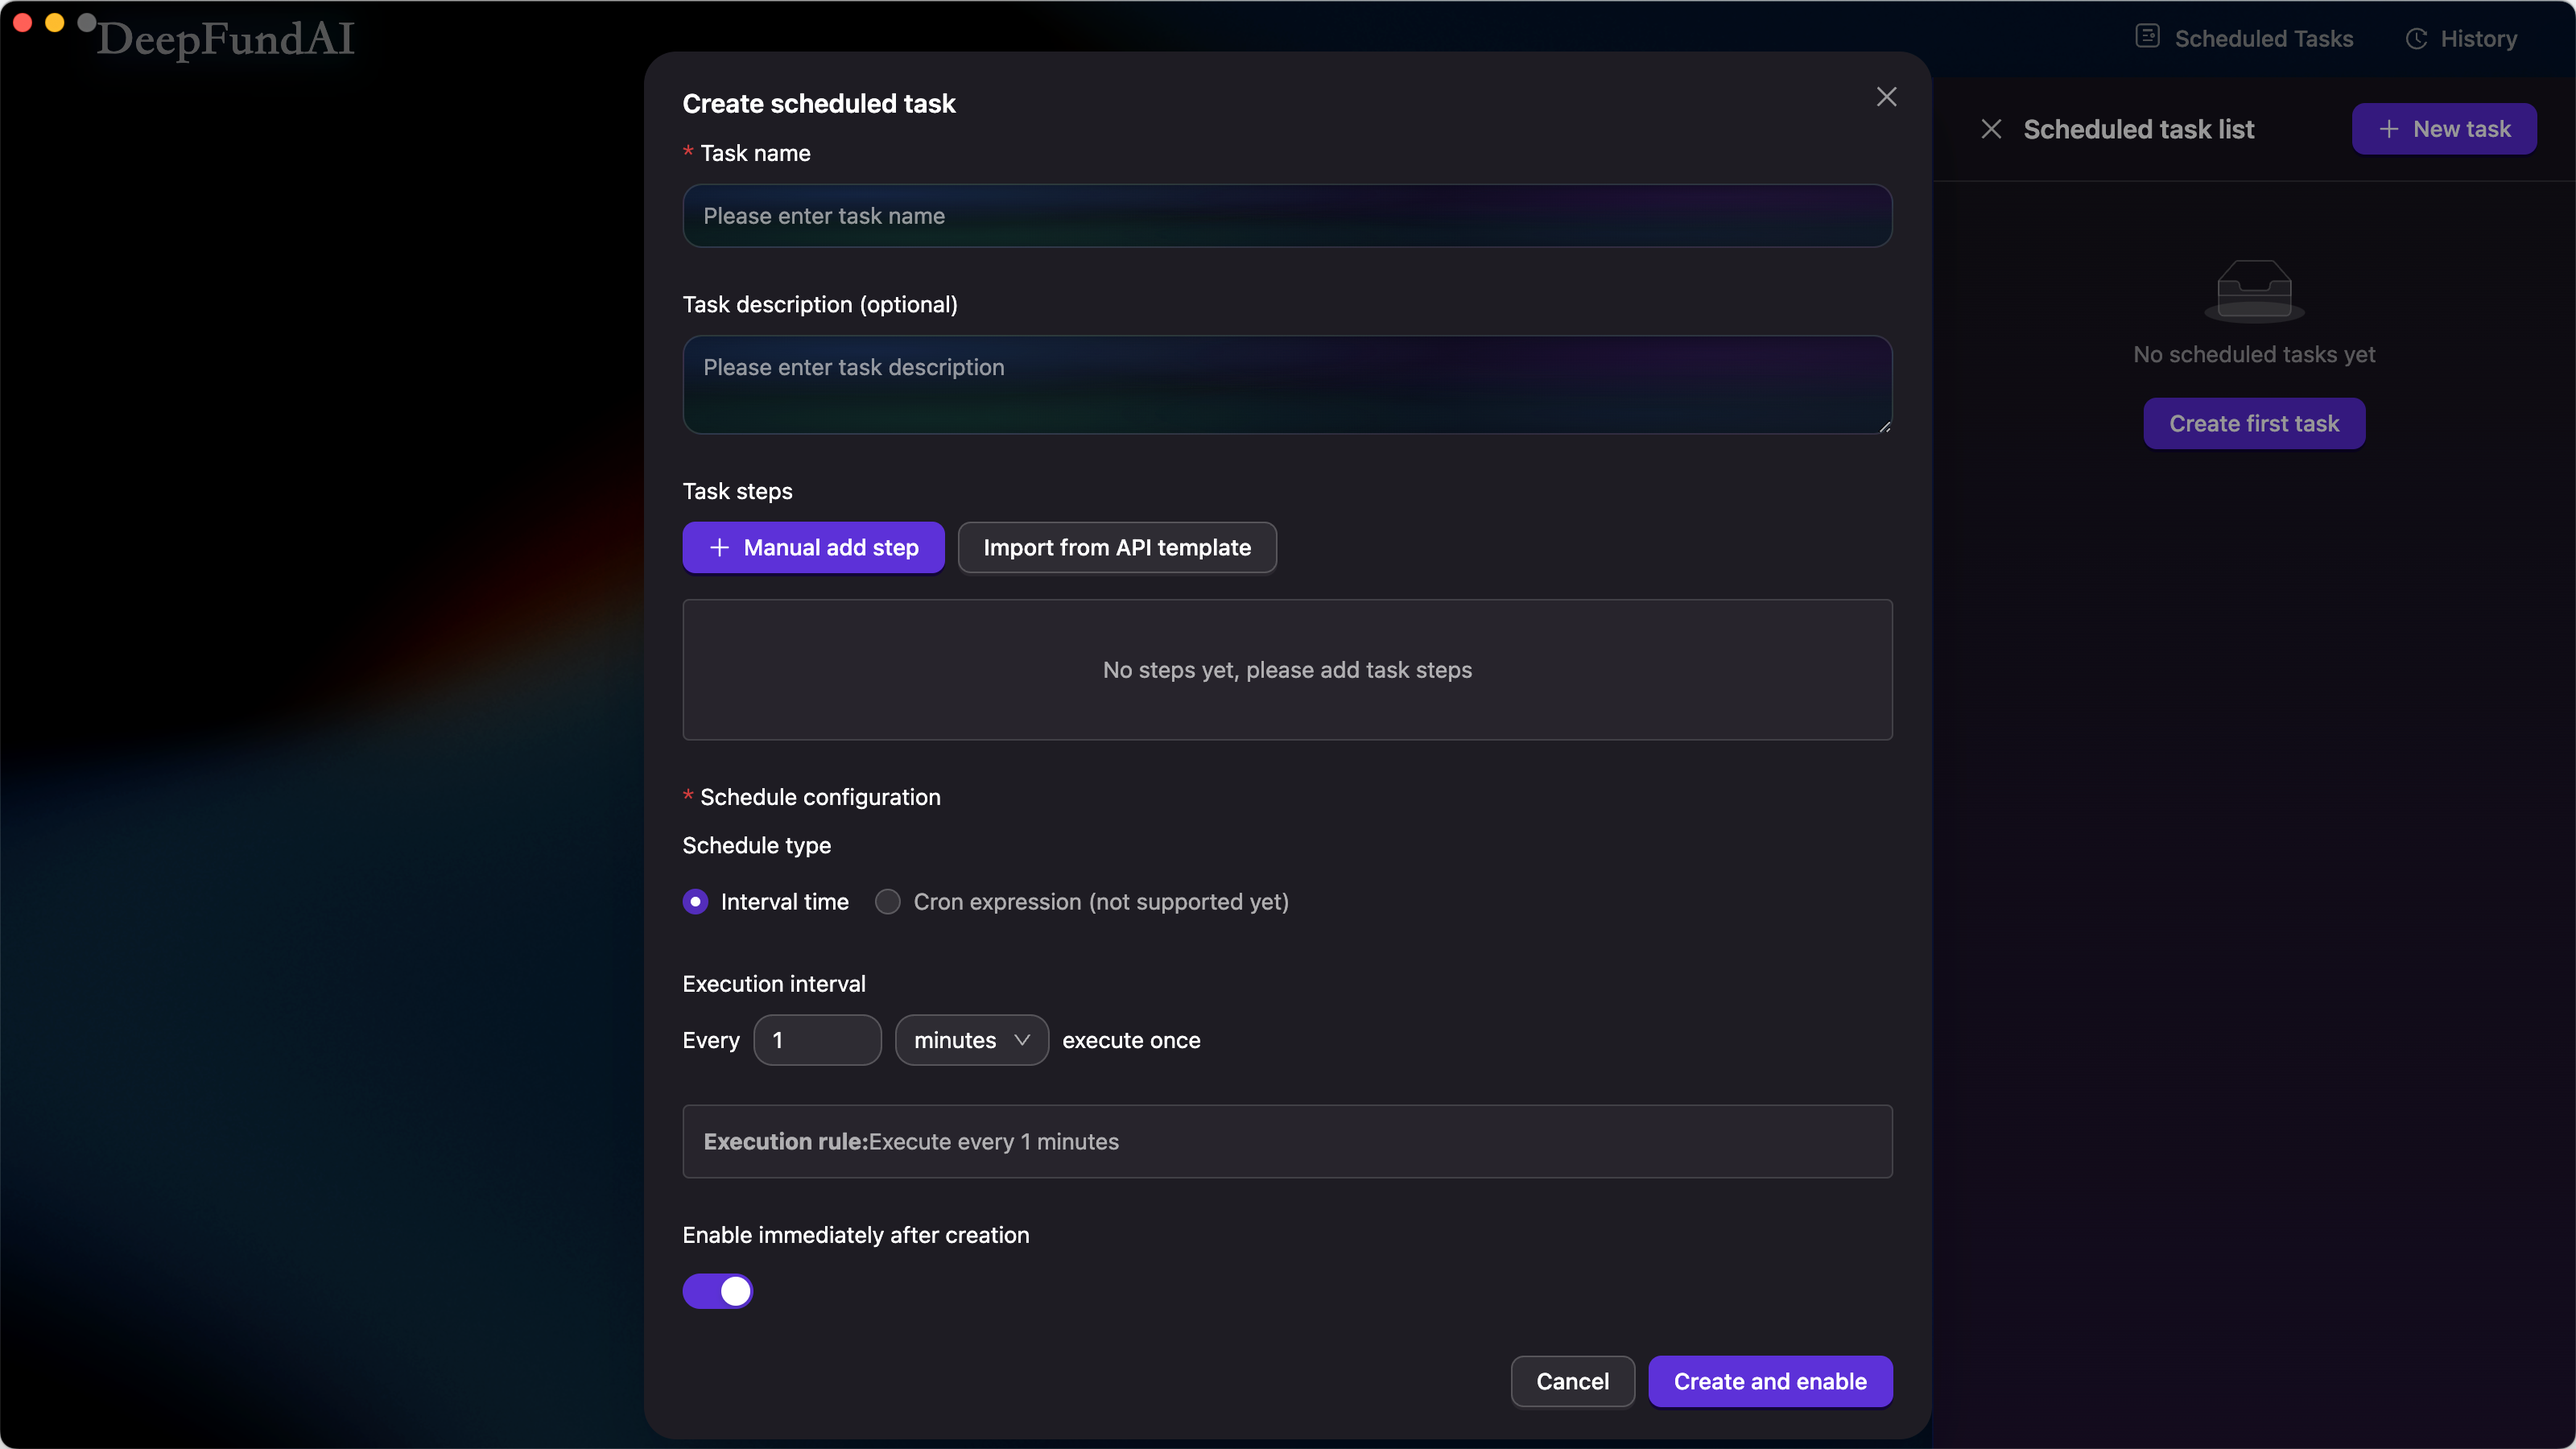
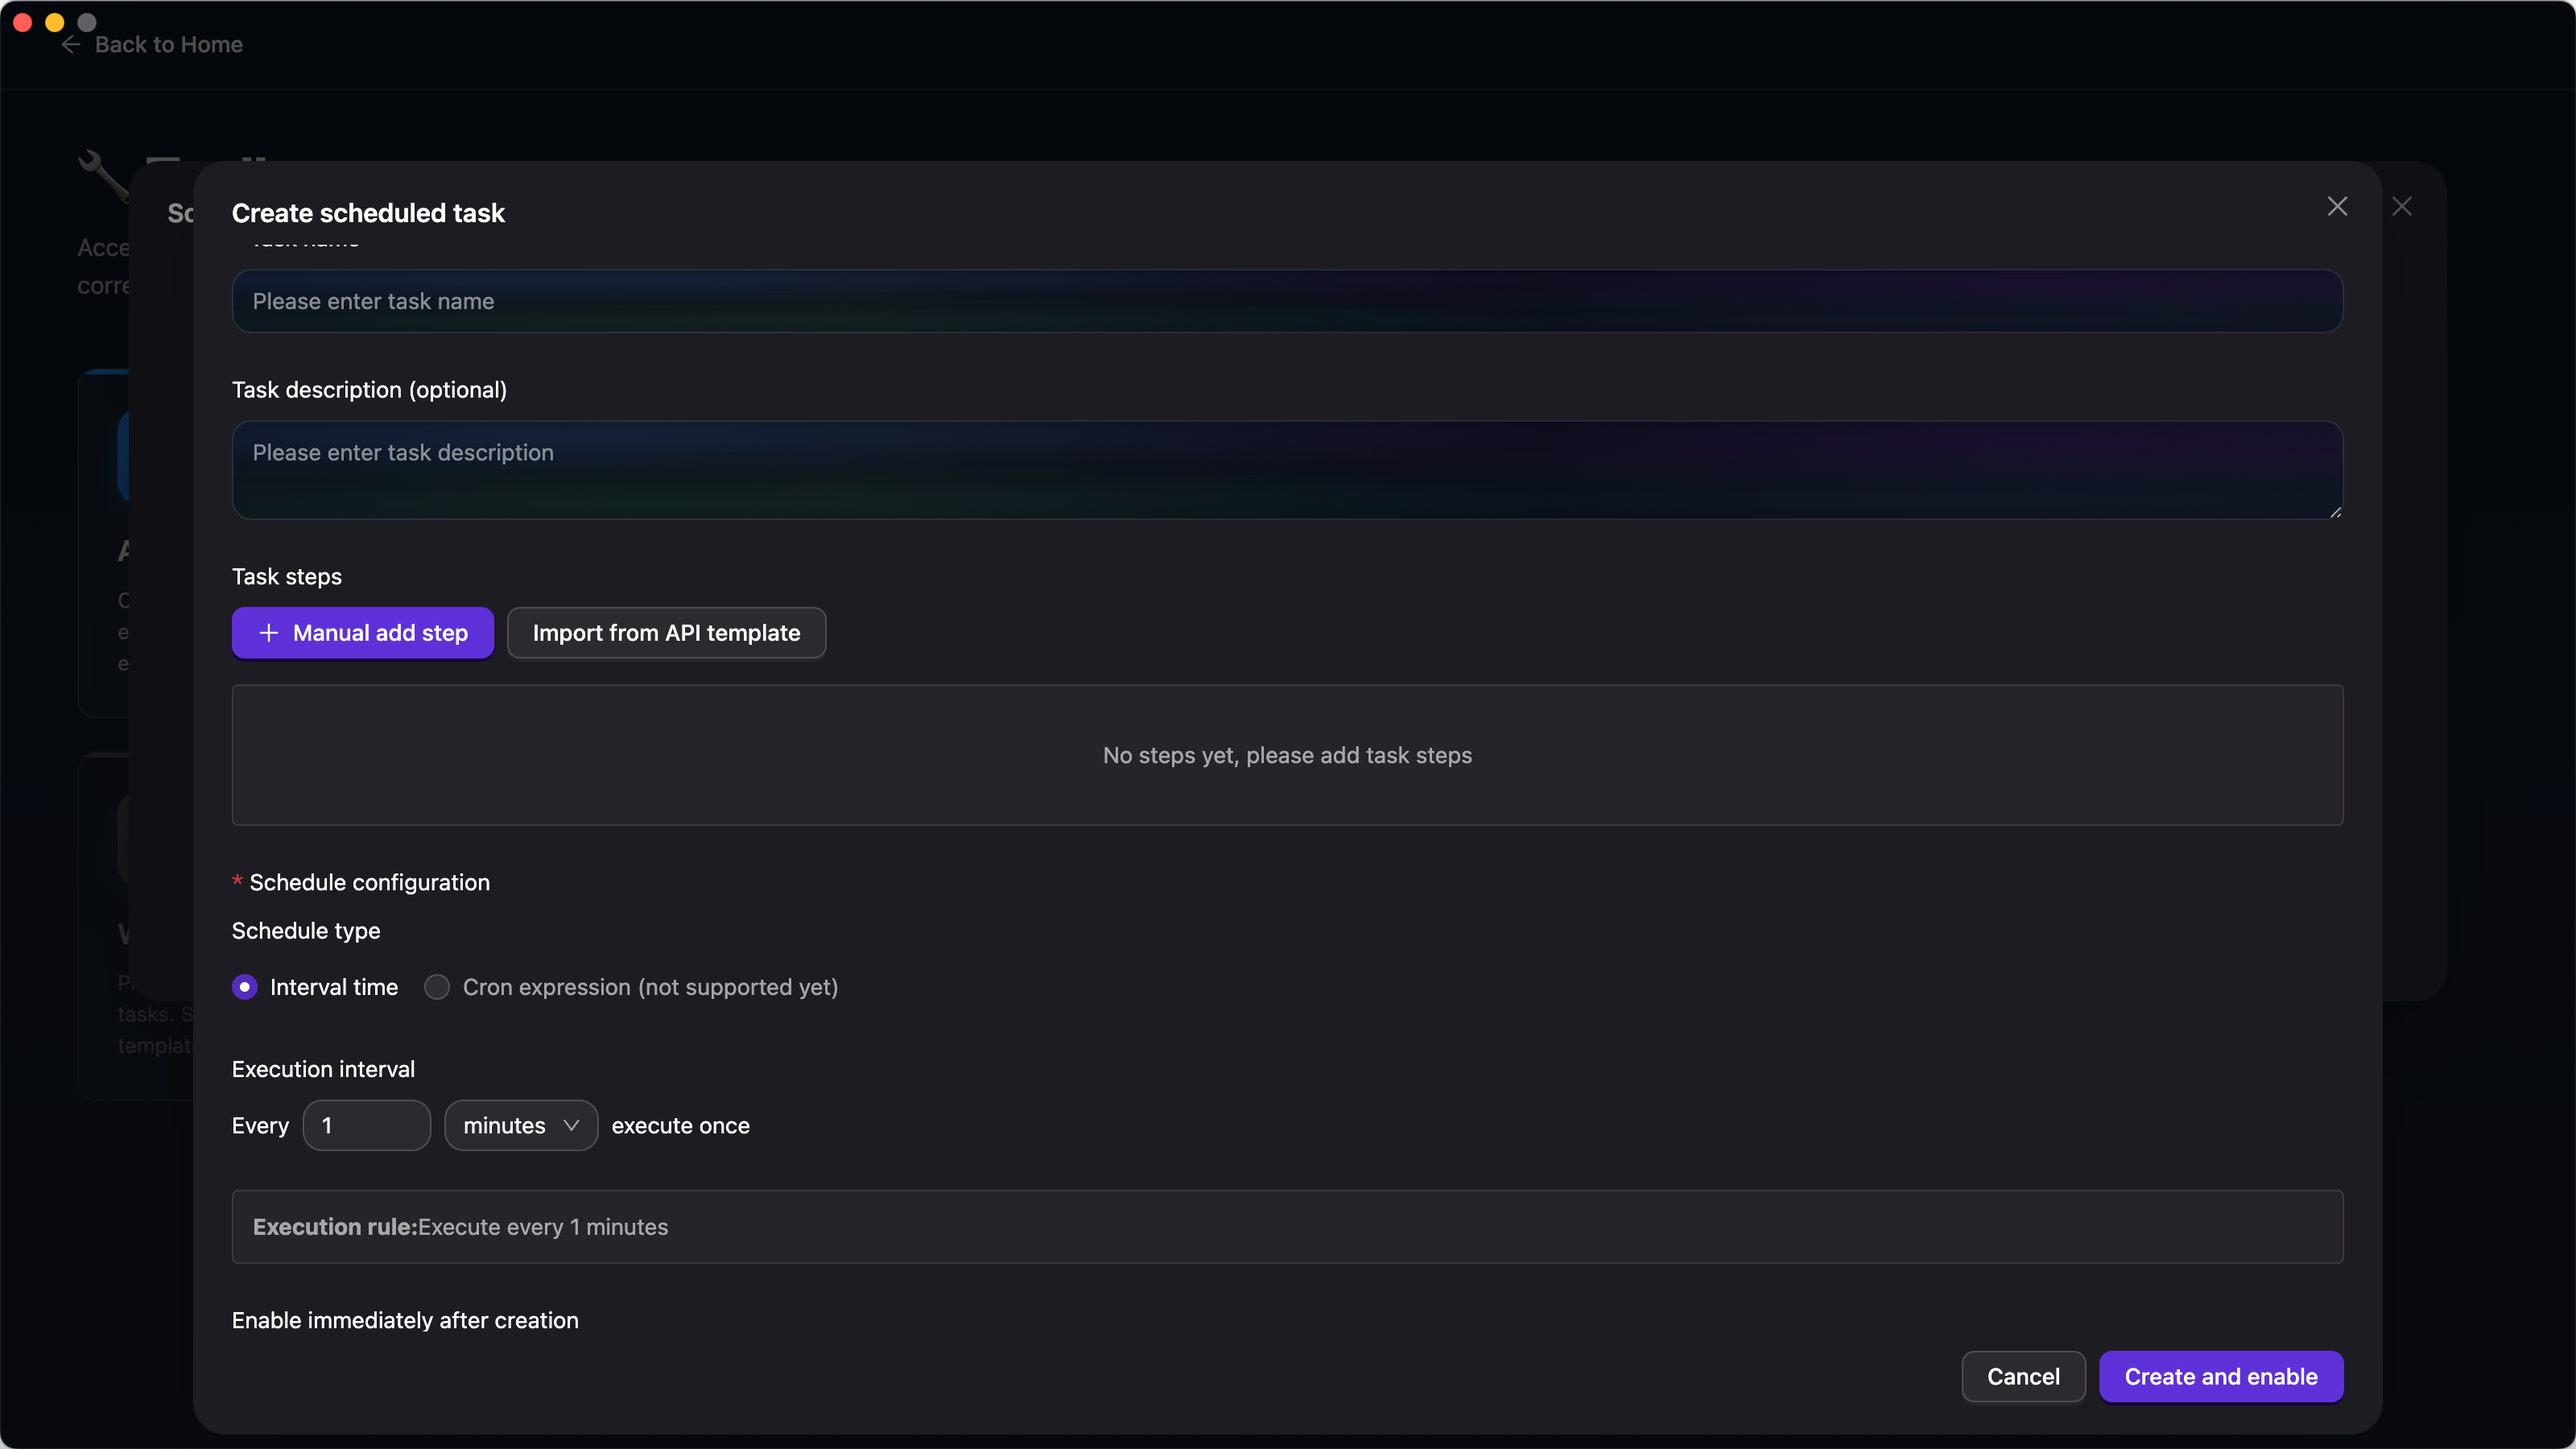
docs: update documentation and screenshots for new features
- Add agent configuration and toolbox documentation to README files
- Update screenshots for history, home, main, and schedule pages
- Add new screenshots for toolbox and agent configuration pages
- Update package.json version

diff --git a/README.md b/README.md
@@ -77,6 +77,8 @@ The built application will include your API configuration, so end users don't ne
 
 - **Multiple AI Providers**: Support for DeepSeek, Qwen, Google Gemini, Anthropic Claude, and OpenRouter
 - **UI Configuration**: Configure AI models and API keys directly in the app, no file editing required
+- **Agent Configuration**: Customize AI agent behavior with custom prompts and manage MCP tools
+- **Toolbox**: Centralized hub for system features including agent configuration, scheduled tasks, and more
 - **AI-Powered Browser**: Intelligent browser with automated task execution
 - **Multi-Modal AI**: Vision and text processing capabilities
 - **Scheduled Tasks**: Create and manage automated recurring tasks
@@ -108,6 +110,16 @@ Create scheduled tasks with custom intervals and execution steps.
 View past tasks with search and playback capabilities.
 
 ![History](./docs/shotscreen/history.png)
+
+### Toolbox
+Centralized hub for accessing all system features and configurations.
+
+![Toolbox](./docs/shotscreen/toolbox.png)
+
+### Agent Configuration
+Customize AI agent behavior with custom prompts and manage MCP tools for enhanced capabilities.
+
+![Agent Configuration](./docs/shotscreen/agent-configuration.png)
 
 ## Supported AI Providers
 

diff --git a/README.zh-CN.md b/README.zh-CN.md
@@ -71,6 +71,8 @@ pnpm run build
 
 - **多 AI 提供商支持**: 支持 DeepSeek、Qwen、Google Gemini、Anthropic Claude 和 OpenRouter
 - **UI 配置**: 直接在应用中配置 AI 模型和 API 密钥，无需编辑文件
+- **Agent 配置**: 使用自定义提示词定制 AI Agent 行为，管理 MCP 工具
+- **工具箱**: 系统功能的集中访问中心，包括 Agent 配置、定时任务等
 - **AI 智能浏览器**: 具有自动化任务执行的智能浏览器
 - **多模态 AI**: 视觉和文本处理能力
 - **定时任务**: 创建和管理自动化定期任务
@@ -102,6 +104,16 @@ pnpm run build
 查看过去的任务，支持搜索和回放功能。
 
 ![历史记录](./docs/shotscreen/history.png)
+
+### 工具箱
+集中访问所有系统功能和配置的中心枢纽。
+
+![工具箱](./docs/shotscreen/toolbox.png)
+
+### Agent 配置
+使用自定义提示词定制 AI Agent 行为，管理 MCP 工具以增强能力。
+
+![Agent 配置](./docs/shotscreen/agent-configuration.png)
 
 ## 支持的 AI 提供商
 
